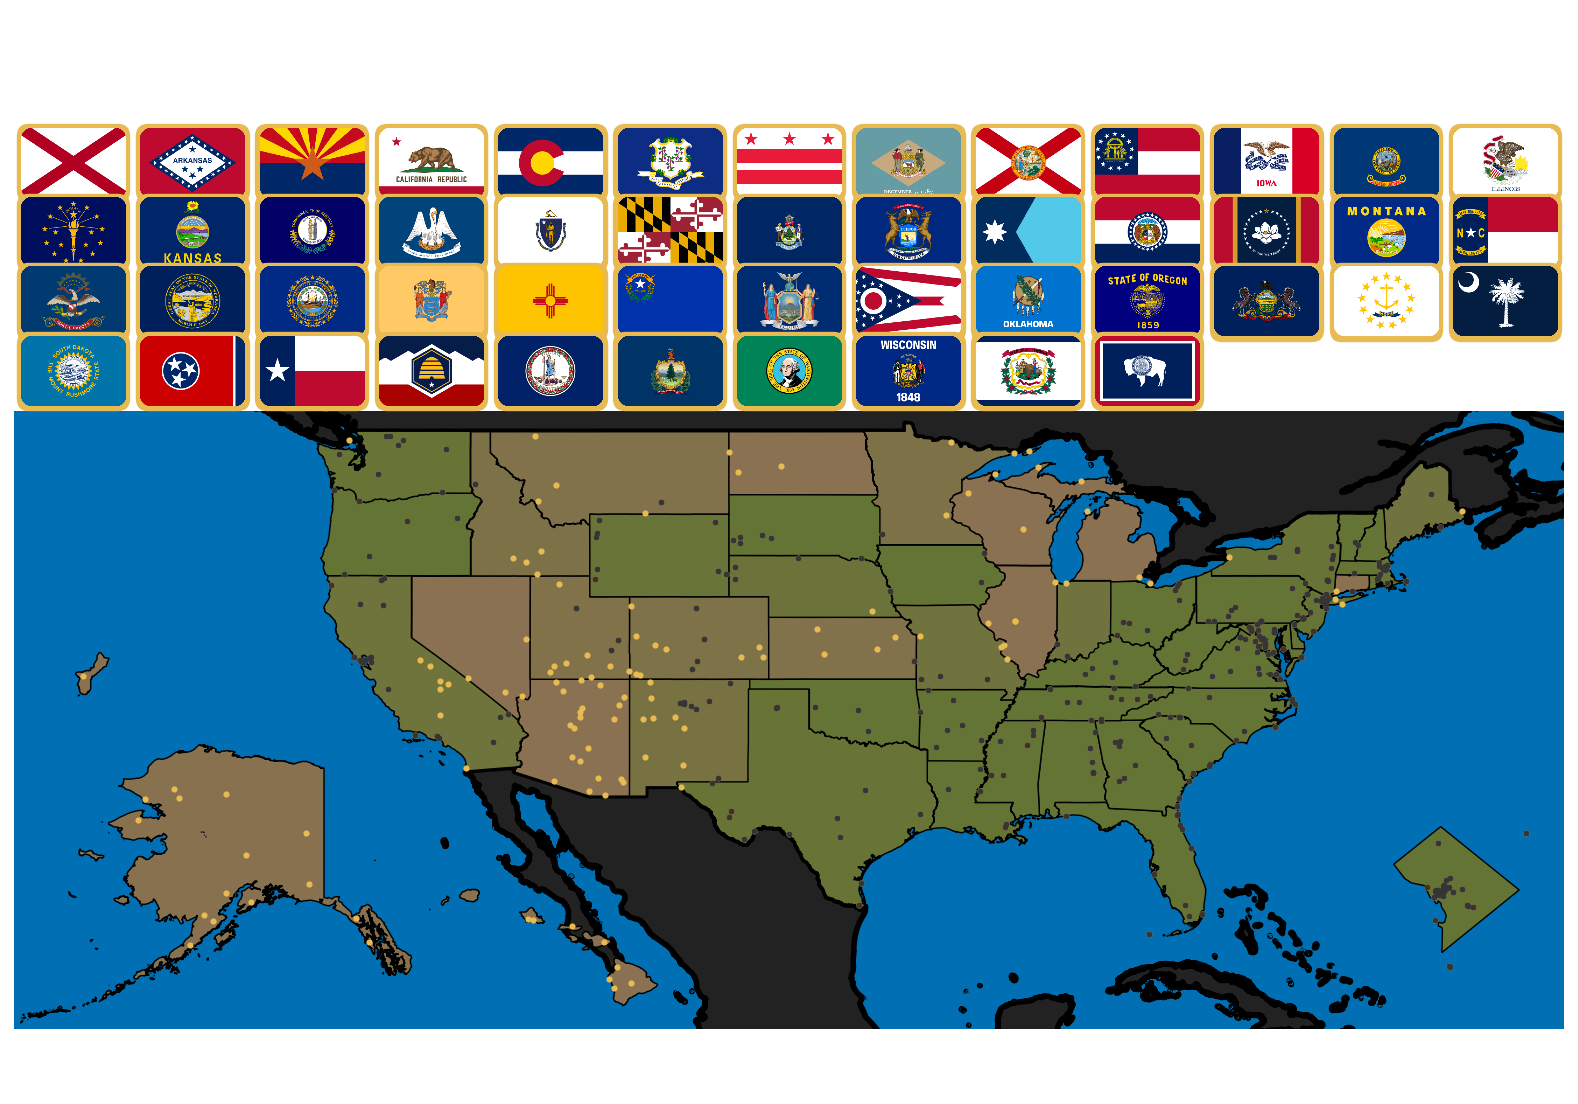
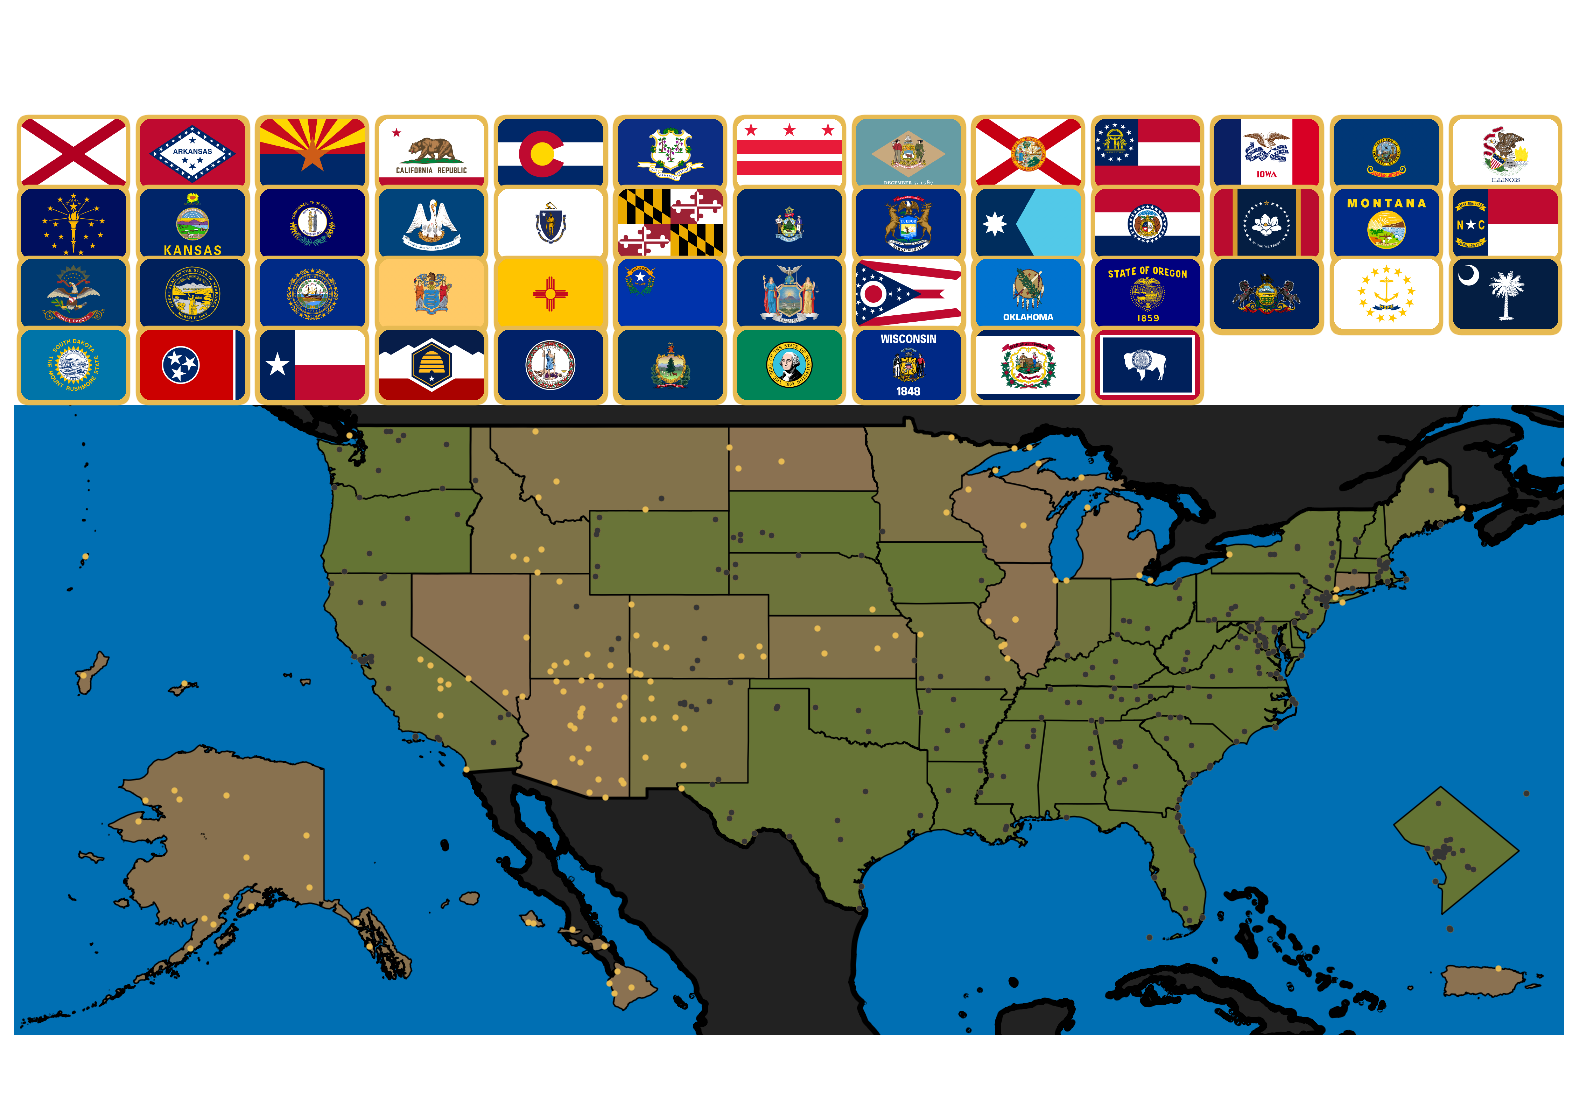
update large map

diff --git a/plotting/plotting_manager.py b/plotting/plotting_manager.py
@@ -27,7 +27,7 @@ class PlotManager:
         self.bgmaps = bgmaps
         self.meta_data = meta_data
         self.path = path
-        self.scale = scale
+        self.plot_scale = scale
 
 
         # Extract metadata fields for plotting
@@ -51,14 +51,16 @@ class PlotManager:
 
     def generate_plot(self, current_date, row, copy=False):
         self.copy = copy
-        print(f"{current_date.date()} - {row['name']}")
+        #print(f"{current_date.date()} - {row['name']}")
         fig, ax = self._initialize_plot()
         self._plot_submaps(ax, current_date)
-        if self.scale >= 3:
-            self._plot_labels(ax, current_date)
-        else: 
+        print(self.points_gdf)
+        if self.plot_scale >= 3:
+            self._plot_labels(ax, current_date, points=self.points_gdf)
+            #self._plot_points(ax, current_date, points=self.points_gdf)
+        else:
             self._plot_points(ax, current_date, points=self.points_gdf)
-        self._plot_points(ax, current_date, points=self.points_gdf, type="clear")
+        #self._plot_points(ax, current_date, points=self.points_gdf, type="clear")
         self._plot_flags(ax)
         self._finalize_and_save_plot(fig, current_date)
 
@@ -68,7 +70,7 @@ class PlotManager:
                 self.fig_size[0],
                 self.fig_size[1],
             ), 
-            dpi=100*self.scale
+            dpi=100*self.plot_scale
         )
         fig.patch.set_facecolor("#FF000000")
         #fig.patch.set_facecolor('#3C4048')
@@ -97,25 +99,11 @@ class PlotManager:
 
             shapefile_path = os.path.join(self.path, "bg_maps", f"{bgmap}.shp")
             bgmap_gdf = gpd.read_file(shapefile_path)
-            bgmap_gdf.plot(ax=ax, edgecolor="black", linewidth=4/self.scale, color=color, alpha=1)
-
-        # Submap Plotting
-        #for submap in self.submaps:
-        #    submap_points = self.points_gdf[self.points_gdf['submap'] == submap["Name"]]
-        #    num_past_dates = (submap_points['date'] <= current_date).sum()
-        #    ratio = num_past_dates / len(submap_points)
-        #    self.ratios[submap["Name"]] = ratio
-        #    color = CustomCmap(self.map_dark, self.map_light).value(ratio)
-
-        #    shapefile_path = os.path.join(self.path, "submaps", f"{submap["Name"]}.shp")
-        #    submap_gdf = gpd.read_file(shapefile_path)
-        #    submap_gdf.plot(ax=ax, edgecolor="black", linewidth=1/self.scale, color=color, alpha=1)
-
-            #self._plot_points(ax, current_date, points=submap_points)
+            bgmap_gdf.plot(ax=ax, edgecolor="black", linewidth=4/self.plot_scale, color=color, alpha=1)
         
         # Submap Plotting
         for submap in self.submaps:
-            print(submap["Name"])
+            #print(submap["Name"])
 
             map_i = submap["Name"]
             scale = submap["Scale"]
@@ -155,52 +143,44 @@ class PlotManager:
                 )
             )
 
-            #submap_points["geometry"] = submap_points["geometry"].apply(
-            #    lambda geom: affinity.translate(
-            #        geom,     
-            #        xoff=xoff + ((scale[0]-1) * (geom.x)),
-            #        yoff=yoff + ((scale[1]-1) * (geom.y)),
-            #))
+            submap_gdf.plot(ax=ax, edgecolor="black", linewidth=1/self.plot_scale, color=color, alpha=1)
 
-            submap_gdf.plot(ax=ax, edgecolor="black", linewidth=1/self.scale, color=color, alpha=1)
-
-
+            #if map_i == "MP":
+            #    print(self.points_gdf.loc[mask, "geometry"])
 
             #self._plot_points(ax, current_date, points=submap_points)
 
     def _plot_points(self, ax, current_date, points, type="normal"):
-        scale_factor = self.marker_size
 
         # Invisible layer to force map scaling
         if type=="clear":
-            points.plot(ax=ax, color="black", linewidth=0, markersize=scale_factor, alpha=0)
+            points.plot(ax=ax, color="black", linewidth=0, markersize=self.marker_size, alpha=0)
 
         else:
             # Unvisited
-            points.plot(ax=ax, color=self.color_unvisited, linewidth=0, markersize=scale_factor, alpha=1)
+            points["geometry"].plot(ax=ax, color=self.color_unvisited, linewidth=0, markersize=self.marker_size, alpha=1)
 
             # Visited
             visited = points['date'] < current_date
             if visited.any():
-                points[visited].plot(ax=ax, color='#353535', linewidth=0, markersize=scale_factor, alpha=1)
+                points[visited].plot(ax=ax, color='#353535', linewidth=0, markersize=self.marker_size, alpha=1)
 
             # Active
             active = points['date'] == current_date
             if active.any():
-                points[active].plot(ax=ax, color=self.color_active, linewidth=0, markersize=scale_factor, alpha=1)
+                points[active].plot(ax=ax, color=self.color_active, linewidth=0, markersize=self.marker_size, alpha=1)
 
-    def _plot_labels(self, ax, current_date):
-        if self.scale >= 3:
-            plot_location_labels(
-                ax,
-                self.points_gdf,
-                current_date,
-                self.labels,
-                self.scale,
-                self.color_unvisited,
-                self.color_visited,
-                self.color_active
-            )
+    def _plot_labels(self, ax, current_date, points):
+        plot_location_labels(
+            ax,
+            points,
+            current_date,
+            self.labels,
+            self.plot_scale,
+            self.color_unvisited,
+            self.color_visited,
+            self.color_active
+        )
 
     def _plot_flags(self, ax):
         flag_scale = self.meta_data["Flags"]["Scale"]
@@ -288,13 +268,13 @@ class PlotManager:
             for i in range(5):
                 filename = f"{self.path}_{current_date.strftime('%y%m%d')}_{i+1}.png"
                 full_temp_path = os.path.join(self.output_temp_path, filename)
-                full_final_path = os.path.join(self.output_final_path, f"{self.path}_{self.scale}.png")
+                full_final_path = os.path.join(self.output_final_path, f"{self.path}_{self.plot_scale}.png")
                 plt.savefig(full_temp_path)
                 self.trim_image(full_temp_path, full_final_path)
         else:
             filename = f"{self.path}_{current_date.strftime('%y%m%d')}.png"
             full_temp_path = os.path.join(self.output_temp_path, filename)
-            full_final_path = os.path.join(self.output_final_path, f"{self.path}_{self.scale}.png")
+            full_final_path = os.path.join(self.output_final_path, f"{self.path}_{self.plot_scale}.png")
             plt.savefig(full_temp_path)
             self.trim_image(full_temp_path, full_final_path)
         plt.close(fig)

diff --git a/main.py b/main.py
@@ -11,9 +11,6 @@ from plotting.gif_generator import GifGenerator
 from utils.file_utils import ensure_directory_exists
 
 
-# Set global variables, directories for map creation and site locations
-#SCALE = 5
-
 # US National Park Global Variables
 PATH = "us"
 
@@ -77,6 +74,8 @@ gif = GifGenerator(
     )
 gif.generate()
 
+# Reload Points
+points_gdf = PointsLoader(PATH).load()
 # Large Plot
 plot_manager = PlotManager(
     points_gdf=points_gdf,
